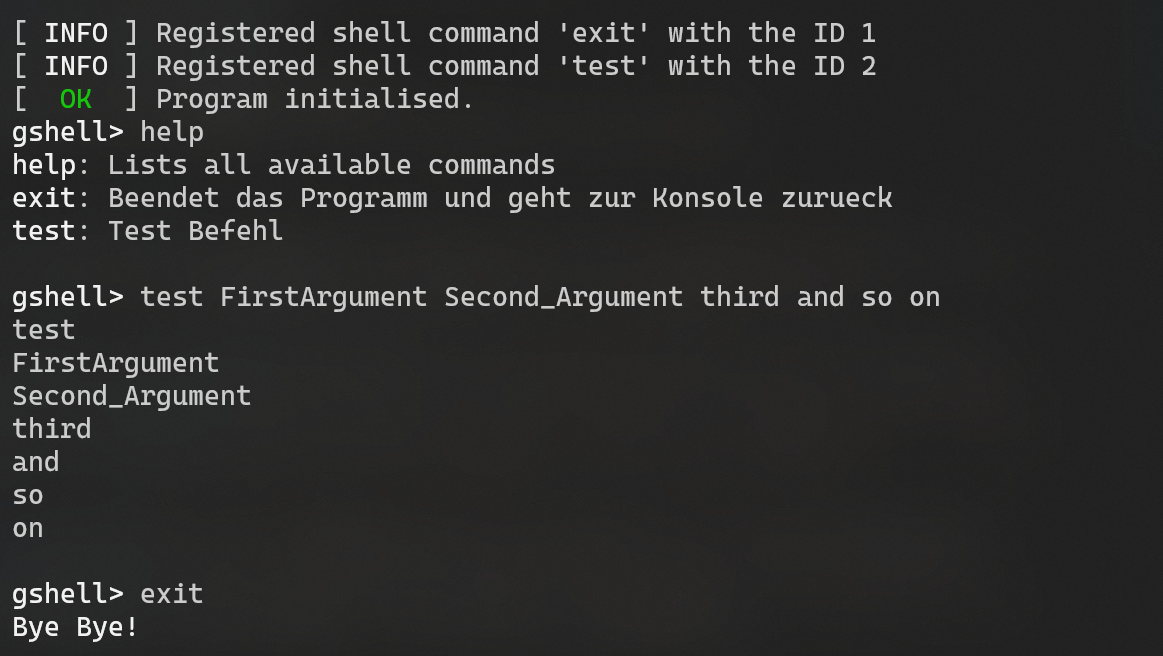
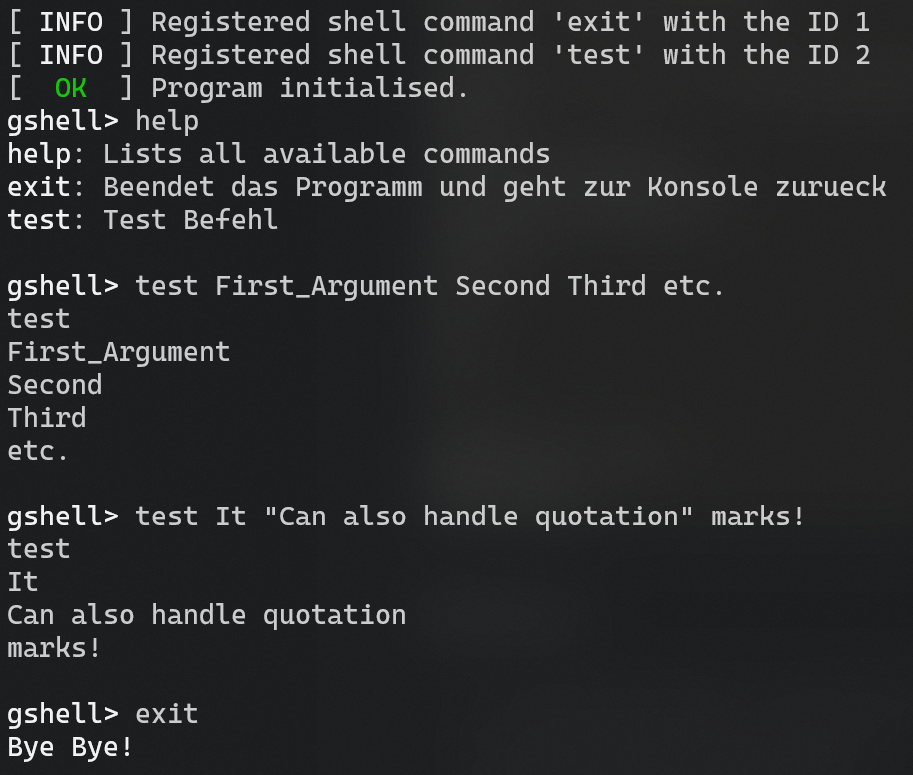
New image, fixed code typo

diff --git a/main.c b/main.c
@@ -61,8 +61,8 @@ int main()
 	uint8_t u8AppRunning = 0;	// Keeps the while-loop running
 	uint16_t u16CmdRetVal;		// gshell return value
 	gshell_cmd_t gCmdArr[] = {	// gshell command structure, packed in an array
-		{"exit",	cli_cmd_exit,	"Beendet das Programm und geht zur Konsole zurueck", NULL},
-		{"test",	cli_cmd_test,	"Test Befehl", NULL},
+		{"exit",	cli_cmd_exit,	"Exits the program and returns to the computer's console", NULL},
+		{"test",	cli_cmd_test,	"Test command, prints back all arguments", NULL},
 	};
 
 	// Initialising gshell - passing over the function pointer to print a character,
